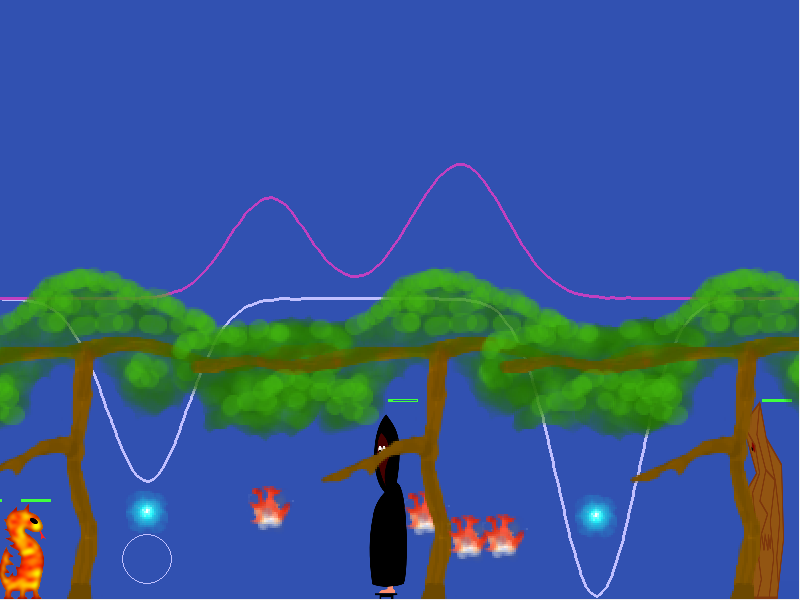
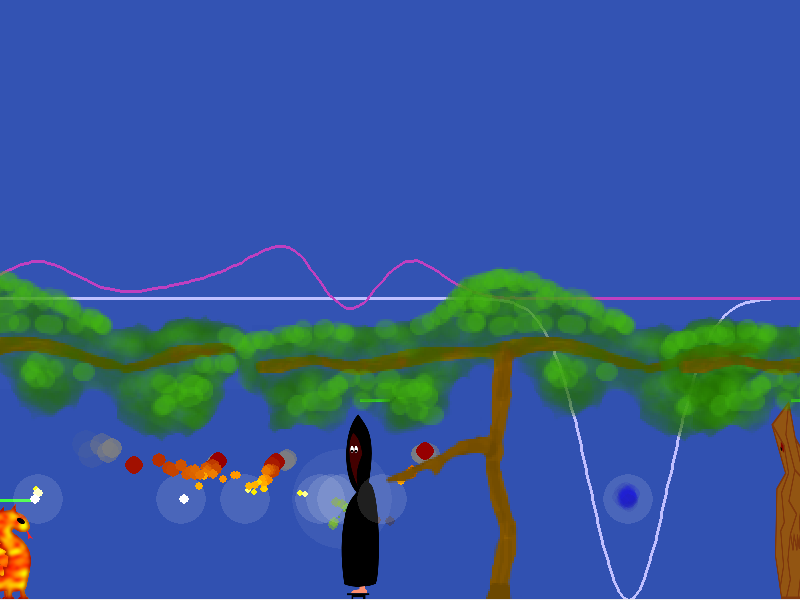
release 0.3beta after that: actor stacking (scenery in back, particles in front), calibrate some effects, update webpage

diff --git a/webpage/index.html b/webpage/index.html
@@ -11,6 +11,7 @@
 <li/><b>Fun for the whole family!</b>
 <li/>Physics-like magic system (three magic effects)
 <li/>Three increasingly difficult (but short) levels with <u>storyline</u>
+<li/>Super-fancy visual particle effects
 <li/>Two original music tracks
 <li/>Mediocre graphics
 <li/>Lowsy sound effects
@@ -19,7 +20,7 @@
 <p>Screenshot:<br/><a href="screenshot.png"><img src="screenshot_thumb.png"></a></p>
 
 <h4>Download</h4>
-<p>Binary release for <a href="files/magicity-win32-0.2beta.zip">win32</a>: built via py2exe under wine, hopefully it works. Let me know if you have any problems.</p>
-<p>And the <a href="files/magicity-src-0.2beta.tar.gz">source</a> release, suitable for real operating systems (requires python and pygame).</p>
+<p>Binary release for <a href="files/magicity-win32-0.3beta.zip">win32</a>: built via py2exe under wine, hopefully it works. Let me know if you have any problems.</p>
+<p>And the <a href="files/magicity-src-0.3beta.tar.gz">source</a> release, suitable for real operating systems (requires python and pygame).</p>
 </body>
 </html>

diff --git a/effects.py b/effects.py
@@ -173,7 +173,7 @@ class Nature(ParticleEffect):
           dot.ys += 5.0 * timediff
 
 class Wind(ParticleEffect):
-      normal_particles = 100
+      normal_particles = 50
       def gen_dot(self):
           x = random() * 10 - 5.0
           y = random() * 10
@@ -191,8 +191,8 @@ class Wind(ParticleEffect):
       def update_speed(self, dot, timediff):
           if self.intensity > 0: mult = -1
           else: mult = 1
-          dot.xs = mult * math.cos(dot.seed + dot.age * 12.0 * abs(self.intensity)) * 100.0
-          dot.ys = math.sin(dot.seed + dot.age * 12.0 * abs(self.intensity)) * 100.0
+          dot.xs = mult * math.cos(dot.seed + dot.age * 12.0 * abs(self.intensity)) * 100.0 * abs(self.intensity)
+          dot.ys = math.sin(dot.seed + dot.age * 12.0 * abs(self.intensity)) * 100.0 * abs(self.intensity)
 
 class Energy(ParticleEffect):
       def gen_dot(self):
@@ -200,18 +200,19 @@ class Energy(ParticleEffect):
           dot.xseed = random() * 100.0
           dot.yseed = random() * 100.0
           dot.xdiff = random() / 5.0
+          light = 32 * random()
           if self.intensity > 0:
-            dot.color = (255 - random() * 96, 32, 32, 32)
+            dot.color = (255 - random() * 96, 32 + light, 32 + light, 32)
           else:
-            dot.color = (32, 32, 255 - random() * 96, 32)
+            dot.color = (32 + light, 32 + light, 255 - random() * 96, 32)
           return dot
       def get_radius(self, dot):
-          return 5.0 + math.sin(12 * dot.age) * 5.0
+          return math.sin(6 * dot.age + dot.xseed) * 5.0 + 5.0
       def get_color(self, dot):
           return dot.color
       def update_speed(self, dot, timediff):
-          dot.xs = math.sin(6 * dot.age + dot.xseed * dot.xdiff) * 10.0
-          dot.ys = math.sin(6 * dot.age + dot.yseed) * 10.0
+          dot.xs = math.sin(6 * dot.age + dot.xseed * dot.xdiff) * 20.0
+          dot.ys = math.sin(6 * dot.age + dot.yseed) * 20.0
           
 
 if __name__ == "__main__":
@@ -220,7 +221,8 @@ if __name__ == "__main__":
   overlay = pygame.surface
   clock   = pygame.time.Clock()
   
-  forever = True
+  forever   = True
+  intensity = 1.0
   fx = []
   fx.append(Fire(xofs = 100))
   fx.append(Wind(xofs = 200))
@@ -233,6 +235,10 @@ if __name__ == "__main__":
       if event.type == pygame.KEYDOWN:
         if event.key == pygame.K_ESCAPE:
           forever = False
+        if event.key == pygame.K_UP:
+          intensity += 0.1
+        if event.key == pygame.K_DOWN:
+          intensity -= 0.1
   
     # draw
     screen.fill([32, 32, 96, 255])
@@ -242,4 +248,4 @@ if __name__ == "__main__":
   
     clock.tick(45)
     for p in fx:
-      p.update()
+      p.update(intensity)

diff --git a/actors.py b/actors.py
@@ -108,6 +108,8 @@ class Actor:
       base_height  = 0.0
       directed     = True
       from_ceiling = False
+      stacking     = 0
+      # sounds
       snd_move     = []
       snd_death    = []
 
@@ -372,29 +374,32 @@ class FSMController:
           pass
 
 # scenery
-class Tree(Actor):
+class Scenery(Actor):
+      directed   = False
+      stacking   = 0
+      initial_hp = 0
+class Tree(Scenery):
       sprite_names = ["tree"]
-      directed     = False
-      initial_hp   = 0
-class Sun(Actor):
+class Sun(Scenery):
       sprite_names = ["sun"]
-      directed     = False
-      initial_hp   = 0
       base_height  = 300
-class Post(Actor):
+class Post(Scenery):
       sprite_names = ["post"]
-      directed     = False
-      initial_hp   = 0
       animate_stop = True
+      stacking     = 5
 
-class Dude(Actor):
+# Characters
+class Character(Actor):
+      stacking = 10
+
+class Dude(Character):
       const_speed  = 6.0
       initial_hp   = 100
       sprite_names = ["dude-left", "dude-right"]
       snd_move     = ["step", "cape1", "cape2"]
       snd_death    = ["cry"]
 
-class Rabbit(Actor):
+class Rabbit(Character):
       const_speed  = 9.0
       anim_speed   = 2.0
       initial_hp   = 15
@@ -403,19 +408,20 @@ class Rabbit(Actor):
       snd_move     = ["jump"]
       snd_death    = ["beep1", "beep2"]
 
-class Dragon(Actor):
+class Dragon(Character):
       const_speed  = 2.0
       sprite_names = ["dragon-left", "dragon-right"]
       snd_move     = ["crackle1", "crackle2"]
       snd_death    = ["moan1", "moan2"]
 
-class Guardian(Actor):
+class Guardian(Character):
       const_speed    = 0.5
       initial_hp     = 250
       regeneration   = 2.0
       initial_energy = 20.0
       sprite_names = ["guardian-left", "guardian-right"]
 
+# controllers
 class GuardianController(FSMController):
       states = [ "idle", "guarding" ]
       def __init__(self, puppet):

diff --git a/game.py b/game.py
@@ -233,7 +233,7 @@ class World:
             ret.append(actor)
           return ret
       def sort_actors(self):
-          self.actors.sort(key = attrgetter("pos"))
+          self.actors.sort(lambda x, y: cmp(x.stacking, y.stacking) or cmp(y.pos, x.pos))
 
       # field management
       def get_field(self, fieldtype):

diff --git a/fields.py b/fields.py
@@ -104,6 +104,7 @@ class MagicParticle(actors.Actor):
       hover_height = 100.0
       initial_hp   = 0
       directed     = False
+      stacking     = 20
 
       # Particle params
       base_dev     = 5.0
